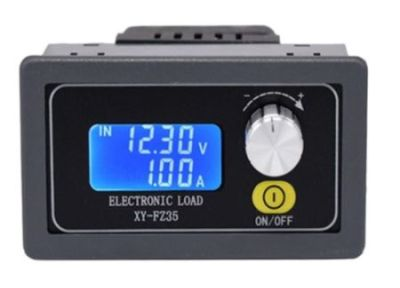
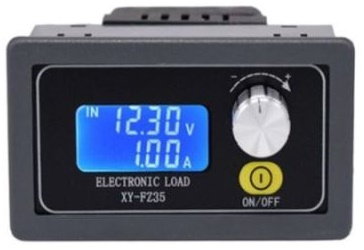
Version 1.3.1 released

diff --git a/README.md b/README.md
@@ -2,7 +2,7 @@
  
 This program controls "Electronic Load" devices XY-FZ25 and XY-FZ35, sold on different webshops, mainly from Asia. Most of them provide detailed instruction manuals as well. In folder [**Doc**](https://github.com/yellobyte/ElectronicLoad_Control_XY-FZ35/tree/main/Doc) you find some specs.
 
-   ![github](https://github.com/yellobyte/ElectronicLoad-Control-XY-FZ35/raw/main/Doc/XY-FZ35a.jpg)
+<p align="center"><img src="https://github.com/yellobyte/ElectronicLoad-Control-XY-FZ35/raw/main/Doc/XY-FZ35a.jpg" width="400"/></p>
 
 A **programmable electronic load** emulates DC or AC resistance loads required to perform functional tests on batteries, all sorts of power supplies, solar cells, technical equipment, etc. There are many other useful scenarios.
 In the simplest case an electronic load just sinks current (absorbes power). The amount of current can be set and the load tries to keep it stable even when the applied voltage changes.  
